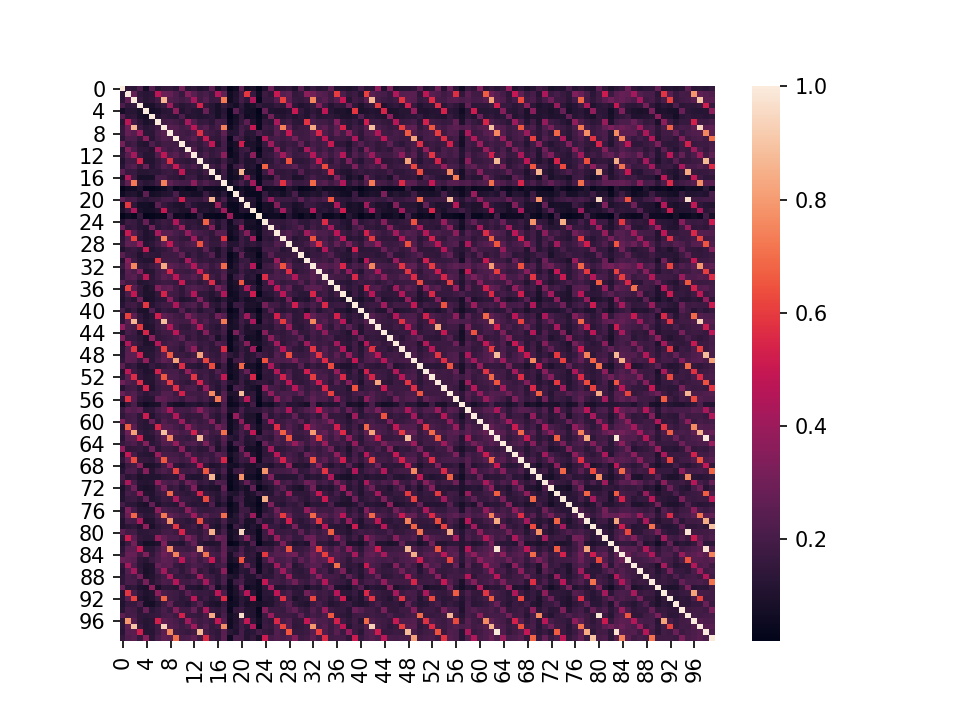
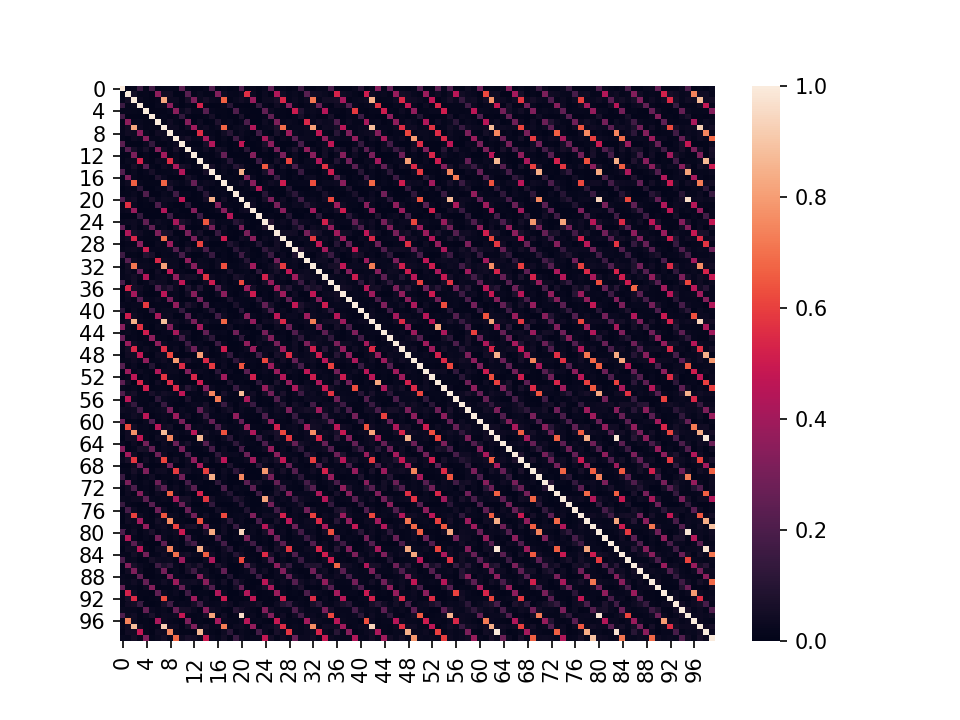
Improved TF-IDF model

diff --git a/detect.py b/detect.py
@@ -73,7 +73,13 @@ def jaccardSimilarity(F1, F2):
 
 # TF-IDF Approach
 def TfIdfSimilarity(files):
-    S = tfidfv().fit_transform(files)
+    S = tfidfv(
+        decode_error="ignore", # Ignore encoding errors
+        stop_words = "english",
+        strip_accents="ascii", # Removes characters like: á
+        norm="l2"
+    ).fit_transform(files) # Converts list of files to TF-IDF features
+    # S is already normalized, ||S|| = 1, thus cosine similarity: S*S.T
     similarity = S*S.T # Of the type: scipy.sparse.csr.csr_matrix
     similarity = similarity.toarray() # Converting into a standard numpy array
     return similarity
